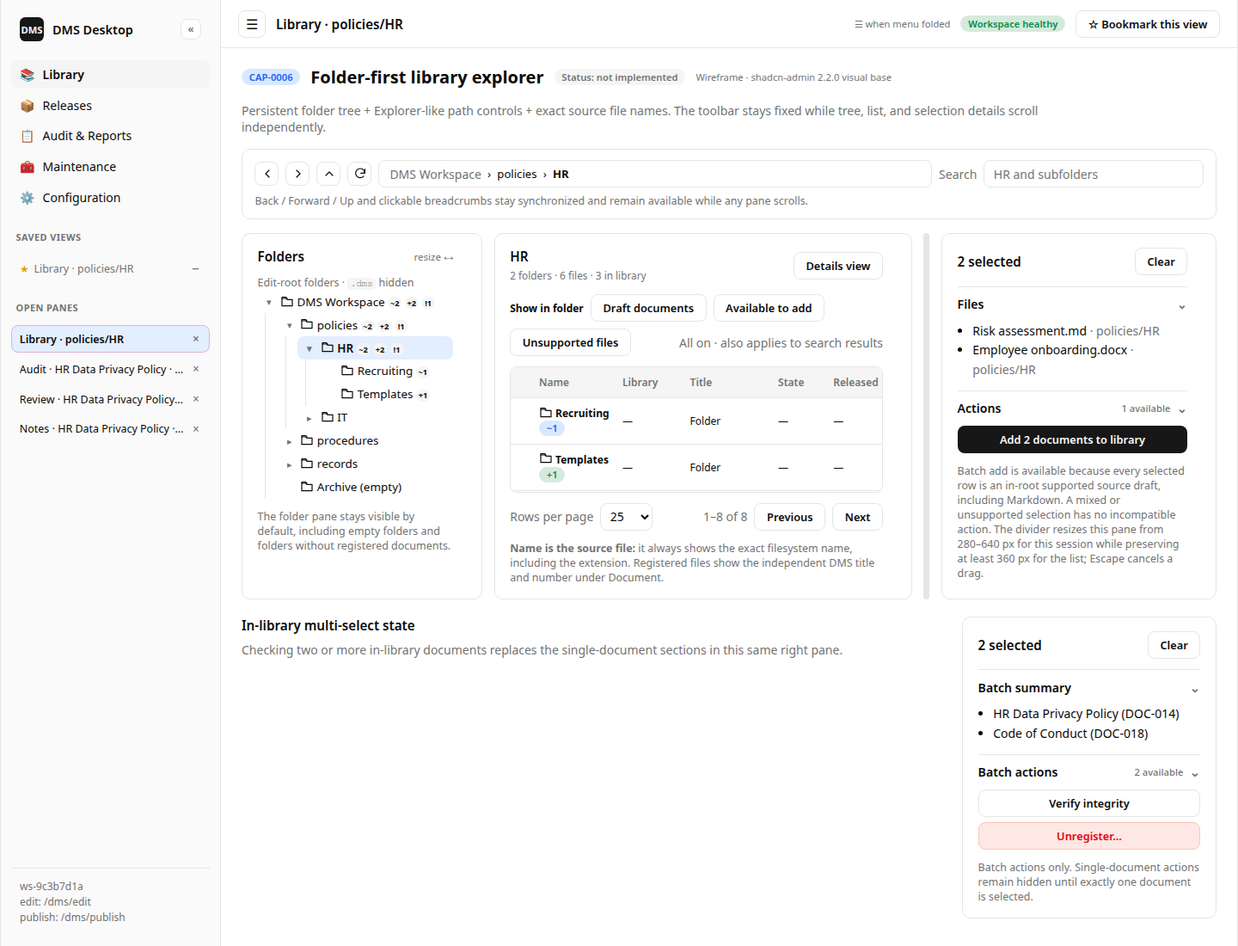
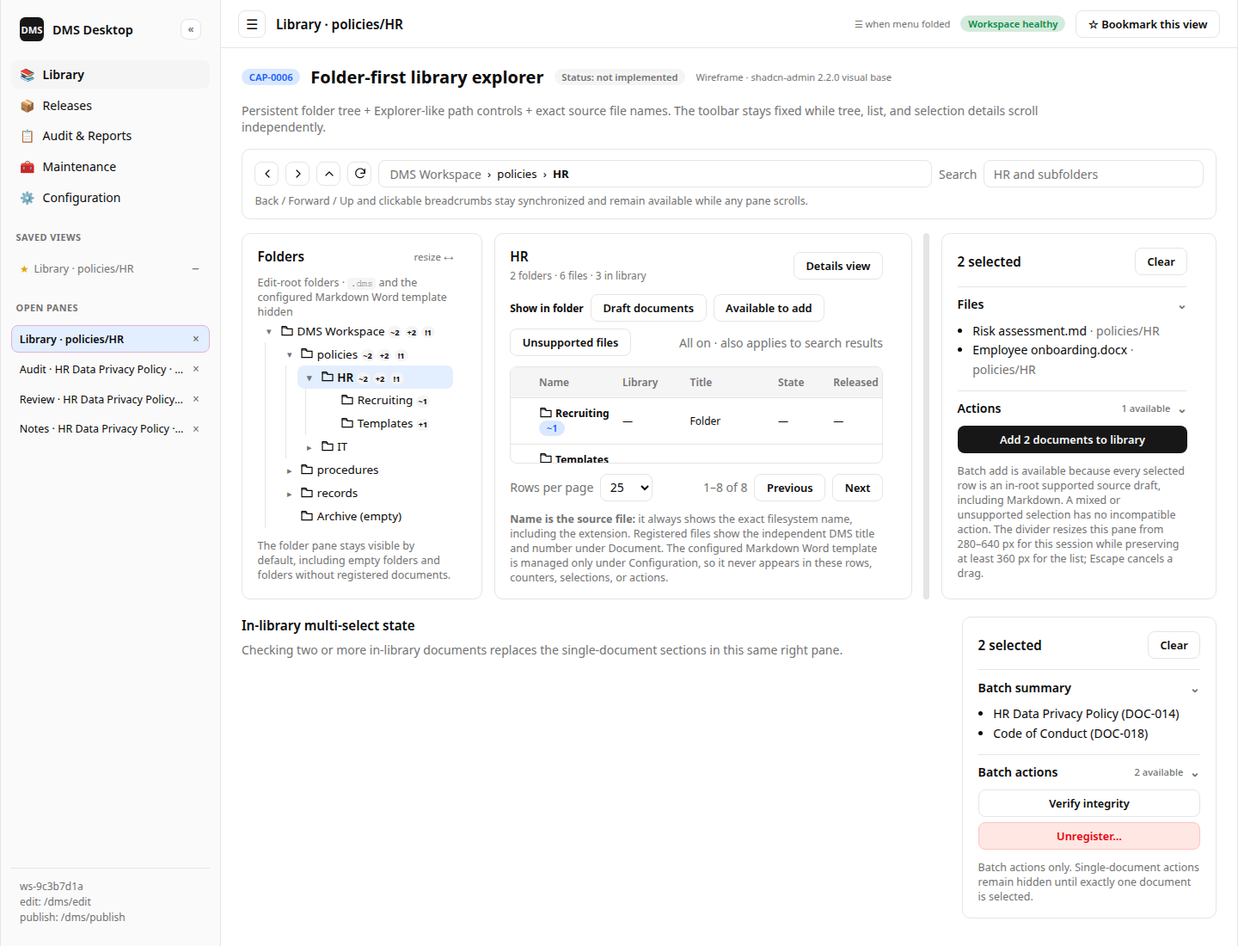
feat(desktop): add Markdown template controls
Expose native template selection, validation, replacement, and confirmed removal under Document defaults while keeping the configured asset out of Library discovery and actions.

Changed region(s): [[0.1875, 0.2782, 0.375, 0.6182], [0.4062, 0.4945, 0.7188, 0.6182]]

diff --git a/docs/product/wireframes/html/CAP-0007-draft-pdf-export.html b/docs/product/wireframes/html/CAP-0007-draft-pdf-export.html
@@ -226,24 +226,31 @@ tr:last-child td { border-bottom: 0; }
         <span class="badge muted">Status: not implemented</span>
         <span class="wire-meta">Wireframe · shadcn-admin 2.2.0 visual base</span>
       </div>
-      <p class="subtitle">Office via host Office (temp token fill); Markdown via CommonMark print shell + WebView PDF. Shared export chrome from .dms. Classified filename → temp PDF → validate → SHA-256 → atomic rename.</p>
+      <p class="subtitle">Office drafts export through host Office; Markdown is assembled into a temporary DOCX from the configured workspace template, then follows the same Office PDF path. Classified filename → temp PDF → validate → SHA-256 → atomic rename.</p>
       
+      <section class="card">
+        <div class="row between mb"><h3 class="card-title" style="margin:0">Markdown Word template prerequisite</h3><span class="badge ok">Valid</span></div>
+        <dl class="kv"><div><dt>Configuration route</dt><dd>Document defaults</dd></div><div><dt>Exact source path</dt><dd>templates/Controlled release.docx</dd></div><div><dt>Template identity</dt><dd>Stable across replacement</dd></div><div><dt>Library participation</dt><dd>Excluded from rows, counters, selection, notes, lifecycle, and permalinks</dd></div></dl>
+        <div class="row gap-2" style="margin-top:0.75rem"><button class="btn">Replace Word template…</button><button class="btn outline">Remove configuration…</button></div>
+        <p class="hint">The native picker accepts only an in-root <code>.docx</code>. Replacement affects future Markdown releases only; removal blocks that release path until another valid template is selected.</p>
+      </section>
       <section class="card">
         <h3 class="card-title">Export pipeline</h3>
         <div class="pipeline">
-          <div class="step active"><span class="dot"></span>Identify source format</div><div class="step active"><span class="dot"></span>Build export chrome from .dms</div><div class="step active"><span class="dot"></span>Office temp token fill or MD print shell</div><div class="step active"><span class="dot"></span>Export to temp PDF</div><div class="step active"><span class="dot"></span>Validate header</div><div class="step active"><span class="dot"></span>SHA-256 digest</div><div class="step active"><span class="dot"></span>Atomic rename</div>
+          <div class="step active"><span class="dot"></span>Identify source format</div><div class="step active"><span class="dot"></span>Validate front matter + template</div><div class="step active"><span class="dot"></span>Assemble temp DOCX + DMS properties</div><div class="step active"><span class="dot"></span>Host Office PDF export</div><div class="step active"><span class="dot"></span>Validate header</div><div class="step active"><span class="dot"></span>SHA-256 digest</div><div class="step active"><span class="dot"></span>Atomic rename</div>
         </div>
       </section>
       <section class="card">
-        <h3 class="card-title">Markdown print shell (Option A)</h3>
-        <dl class="kv"><div><dt>Body</dt><dd>CommonMark HTML; YAML front matter stripped</dd></div><div><dt>Chrome source</dt><dd>Release context only (not front matter / Office props)</dd></div><div><dt>Footer captions</dt><dd>Vertraulichkeitsstufe: <label> · Version: <major>.<minor></dd></div><div><dt>Assets</dt><dd>Shipped shell.html + print.css + logo (Vorlage-derived)</dd></div></dl>
-        <p class="muted">CAP-0002 marker checks still read the Markdown body on disk. Print-shell footers repeat chrome on the PDF and do not replace that gate.</p>
+        <h3 class="card-title">Markdown → template-backed DOCX</h3>
+        <dl class="kv"><div><dt>Body</dt><dd>CommonMark blocks assembled as native WordprocessingML; YAML front matter stripped</dd></div><div><dt>Styles + package assets</dt><dd>Configured workspace Word template</dd></div><div><dt>Controlled values</dt><dd>Front matter validated against the candidate; DMS_* custom properties written from .dms</dd></div><div><dt>PDF engine</dt><dd>Installed Microsoft Word through the same host export boundary as Office drafts</dd></div></dl>
+        <p class="muted">The temporary DOCX is an implementation artifact only. A successful release commits the PDF and release evidence, then removes the temporary Word file.</p>
       </section>
       <section class="card">
         <h3 class="card-title">Fail-closed conditions</h3>
         <ul class="list danger-list">
           <li>Office missing or unlicensed for an Office draft → abort, no partial version</li>
-          <li>Markdown render or print-shell failure → abort, no partial version</li>
+          <li>Markdown template missing, changed, invalid, or outside the edit root → abort, no partial version</li>
+          <li>Required front matter invalid or DOCX assembly failure → abort, no partial version</li>
           <li>Unsupported draft extension → abort with clear message</li>
           <li>Temp empty or missing %PDF header → remove temp, no release record</li>
           <li>Target path occupied by non-app file → fail (ADR-0007)</li>

diff --git a/docs/product/wireframes/html/CAP-0006-library-explorer.html b/docs/product/wireframes/html/CAP-0006-library-explorer.html
@@ -270,7 +270,7 @@ tr:last-child td { border-bottom: 0; }
             <h3 class="card-title" style="margin:0">Folders</h3>
             <span class="muted" style="font-size:0.72rem">resize ↔</span>
           </div>
-          <p class="hint" style="margin-top:0">Edit-root folders · <code>.dms</code> hidden</p>
+          <p class="hint" style="margin-top:0">Edit-root folders · <code>.dms</code> and the configured Markdown Word template hidden</p>
           <ul class="tree-root">
             <li>
               <div class="tree-node"><span class="tree-twisty">▾</span><span class="tree-label"><svg aria-hidden="true" viewBox="0 0 24 24" style="width:1rem;height:1rem;display:inline-block;vertical-align:-0.18rem;fill:none;stroke:currentColor;stroke-width:1.8;stroke-linecap:round;stroke-linejoin:round"><path d="M3 6h7l2 2h9v11H3z"/><path d="M3 6V4h7l2 2"/></svg> DMS Workspace <span aria-label="2 draft documents" title="2 draft documents" style="display:inline-flex;min-width:1rem;justify-content:center;padding:0.05rem 0.14rem;border-radius:999px;background:var(--muted);font-size:0.58rem;font-weight:700">~2</span> <span aria-label="2 files available to add" title="2 files available to add" style="display:inline-flex;min-width:1rem;justify-content:center;padding:0.05rem 0.14rem;border-radius:999px;background:var(--muted);font-size:0.58rem;font-weight:700">+2</span> <span aria-label="1 unsupported file" title="1 unsupported file" style="display:inline-flex;min-width:1rem;justify-content:center;padding:0.05rem 0.14rem;border-radius:999px;background:var(--muted);font-size:0.58rem;font-weight:700">!1</span></span></div>
@@ -384,7 +384,7 @@ tr:last-child td { border-bottom: 0; }
     <label class="muted" style="display:flex;align-items:center;gap:0.45rem">Rows per page <select aria-label="Library rows per page" style="height:2rem;border:1px solid var(--input);border-radius:calc(var(--radius) - 2px);padding:0 0.45rem;font:inherit;color:var(--foreground);background:var(--background)"><option>10</option><option selected>25</option><option>50</option><option>100</option></select></label>
     <div class="row gap-2"><span class="muted">1–8 of 8</span><button class="btn outline" disabled>Previous</button><button class="btn outline" disabled>Next</button></div>
   </div>
-          <p class="hint"><strong>Name is the source file:</strong> it always shows the exact filesystem name, including the extension. Registered files show the independent DMS title and number under Document.</p>
+          <p class="hint"><strong>Name is the source file:</strong> it always shows the exact filesystem name, including the extension. Registered files show the independent DMS title and number under Document. The configured Markdown Word template is managed only under Configuration, so it never appears in these rows, counters, selections, or actions.</p>
         </section>
         <div role="separator" aria-label="Resize document details" aria-orientation="vertical" style="cursor:col-resize;background:var(--border);border-radius:999px" title="Drag or use Left/Right; Escape cancels"></div>
         <aside class="card detail-pane">

diff --git a/docs/product/wireframes/html/CAP-0005-desktop-shell.html b/docs/product/wireframes/html/CAP-0005-desktop-shell.html
@@ -247,6 +247,7 @@ tr:last-child td { border-bottom: 0; }
           <div class="layer"><strong>Open activity panes/tabs</strong><p class="muted">Automatic, session-only quicklinks. Labels state task + target: Audit · HR Data Privacy Policy · DOC-014 for a document or Library · policies/HR for a folder. Opening the same task + document focuses its existing pane; × closes that activity only.</p></div>
           <div class="layer"><strong>Saved views</strong><p class="muted">Use ☆ Bookmark this view in the header. ★ Bookmarked is an explicit, per-user shortcut restored after relaunch; it is not a .dms workflow record.</p></div>
           <div class="layer"><strong>Viewport-contained scrolling</strong><p class="muted">The sidebar and activity header stay available. Normal activities scroll inside main content; multi-pane workspaces give navigation, lists, and exhaustive details separate scroll regions.</p></div>
+          <div class="layer"><strong>Configuration → Document defaults</strong><p class="muted">One reusable Markdown Word template is chosen with the native .docx picker. Its exact edit-root-relative path and validation state stay visible with distinct Replace and confirmed Remove actions.</p></div>
           <div class="layer"><strong>Permalink handler</strong><p class="muted">OS-registered dms:// URI resolves workspace + document IDs (CAP-0020); opens/focuses matching activity tab.</p></div>
         </div>
       </section>
@@ -309,7 +310,7 @@ tr:last-child td { border-bottom: 0; }
       <section class="card">
         <h3 class="card-title">Backend command surface</h3>
         <div class="tags">
-          <span class="tag">Configure roots</span><span class="tag">Open workspace</span><span class="tag">Library add/remove</span><span class="tag">Lifecycle transitions</span><span class="tag">Release + verify</span><span class="tag">Copy/resolve permalink</span><span class="tag">Audit export</span><span class="tag">Backup/restore</span><span class="tag">Claude handoff</span>
+          <span class="tag">Configure roots</span><span class="tag">Select/replace/remove Word template</span><span class="tag">Open workspace</span><span class="tag">Library add/remove</span><span class="tag">Lifecycle transitions</span><span class="tag">Release + verify</span><span class="tag">Copy/resolve permalink</span><span class="tag">Audit export</span><span class="tag">Backup/restore</span><span class="tag">Claude handoff</span>
         </div>
       </section>
     </main>

diff --git a/crates/dms-desktop/ui/styles.css b/crates/dms-desktop/ui/styles.css
@@ -419,6 +419,11 @@ button { cursor: pointer; }
 .configuration-grid .card, .configuration-card { max-width: none; }
 .configuration-card { display: grid; gap: 14px; }
 .configuration-card h2, .configuration-card h3, .configuration-card p { margin: 0; }
+.configuration-template { border-left: 4px solid #66889e; }
+.configuration-template-state { align-self: start; }
+.configuration-template-state.success { color: #26613c; background: #e3f3e8; }
+.configuration-template-state.warning { color: #7c4f12; background: #fff0cf; }
+.configuration-template .configuration-enabled { max-width: 700px; font-weight: 500; }
 .configuration-form { display: flex; align-items: end; flex-wrap: wrap; gap: 10px; padding-top: 14px; border-top: 1px solid #edf1f3; }
 .configuration-form label { display: grid; min-width: 220px; flex: 1; gap: 6px; font-size: 13px; font-weight: 700; }
 .configuration-form input, .configuration-form select, .configuration-type-row input { width: 100%; height: 38px; padding: 0 10px; background: white; border: 1px solid #bdc9d2; border-radius: 7px; }

diff --git a/crates/dms-desktop/src/lib.rs b/crates/dms-desktop/src/lib.rs
@@ -12,12 +12,13 @@ use dms_core::{
     ConfidentialityPolicy, ConfidentialityType, ControlUpdate, DeliveryAttempt, DmsError, Document,
     DocumentControl, DocumentType, EffectiveConfidentiality, EffectiveWorkflowRoles,
     EntraIdentitySource, EntraPerson, GraphClient, LibraryEntry, LibraryFolder, LibraryFolderNode,
-    Lifecycle, LocalLifecycleActions, Note, NotificationClient, NotificationKind,
-    NotificationMessage, NotificationSettings, NotificationTransport, OwnerReference, PdfExporter,
-    PeriodicReview, PeriodicReviewMarker, PeriodicReviewResult, PermalinkTarget, PersonSnapshot,
-    PolicyFolder, ReleaseCandidate, ReleaseVerificationStatus, RestoreOutcome, RestoreRequest,
-    ReviewDecision, RoleUpdate, SmtpSettings, SourceState, TargetSelection, Version, WorkflowEvent,
-    WorkflowPolicyAssignment, WorkflowVerification, Workspace, WorkspaceLock, WorkspaceLockStatus,
+    Lifecycle, LocalLifecycleActions, MarkdownTemplateAsset, MarkdownTemplateValidation, Note,
+    NotificationClient, NotificationKind, NotificationMessage, NotificationSettings,
+    NotificationTransport, OwnerReference, PdfExporter, PeriodicReview, PeriodicReviewMarker,
+    PeriodicReviewResult, PermalinkTarget, PersonSnapshot, PolicyFolder, ReleaseCandidate,
+    ReleaseVerificationStatus, RestoreOutcome, RestoreRequest, ReviewDecision, RoleUpdate,
+    SmtpSettings, SourceState, TargetSelection, Version, WorkflowEvent, WorkflowPolicyAssignment,
+    WorkflowVerification, Workspace, WorkspaceLock, WorkspaceLockStatus,
 };
 use lettre::message::Mailbox;
 use serde::{Deserialize, Serialize};
@@ -143,6 +144,8 @@ pub struct DesktopPermalinkResolution {
 #[derive(Clone, Debug, Serialize, PartialEq, Eq)]
 pub struct WorkspaceConfiguration {
     pub workspace: WorkspaceSummary,
+    pub markdown_template: Option<MarkdownTemplateAsset>,
+    pub markdown_template_validation: Option<MarkdownTemplateValidation>,
     pub default_review_interval_months: u32,
     pub document_types: Vec<DocumentType>,
     pub confidentiality_types: Vec<ConfidentialityType>,
@@ -376,6 +379,53 @@ fn load_workspace_configuration(
     edit_root: String,
 ) -> Result<WorkspaceConfiguration, String> {
     workspace_configuration(&app, Path::new(&edit_root))
+}
+
+#[tauri::command]
+async fn choose_markdown_template(
+    app: AppHandle,
+    edit_root: String,
+) -> Result<Option<WorkspaceConfiguration>, String> {
+    let workspace = Workspace::open(Path::new(&edit_root)).map_err(|error| error.to_string())?;
+    let selection = app
+        .dialog()
+        .file()
+        .set_title("Choose Markdown Word template")
+        .set_directory(workspace.edit_root)
+        .add_filter("Word document", &["docx"])
+        .blocking_pick_file();
+    let Some(selection) = selection else {
+        return Ok(None);
+    };
+    let source_path = selection
+        .as_path()
+        .ok_or_else(|| "the selected Word template is not a local filesystem path".to_owned())?;
+    import_markdown_template_from_path(Path::new(&edit_root), source_path).map(Some)
+}
+
+fn import_markdown_template_from_path(
+    edit_root: &Path,
+    source_path: &Path,
+) -> Result<WorkspaceConfiguration, String> {
+    mutate_workspace_configuration(edit_root, |workspace| {
+        workspace.import_markdown_template(source_path).map(|_| ())
+    })
+}
+
+#[tauri::command]
+fn remove_markdown_template(
+    edit_root: String,
+    confirmed: bool,
+) -> Result<WorkspaceConfiguration, String> {
+    if !confirmed {
+        return Err(
+            "removing the Markdown Word template requires explicit confirmation".to_owned(),
+        );
+    }
+    mutate_workspace_configuration(Path::new(&edit_root), |workspace| {
+        workspace.remove_markdown_template();
+        Ok(())
+    })
 }
 
 #[tauri::command]
@@ -2004,6 +2054,8 @@ fn workspace_configuration_from_with_global_and_credentials<C: notify::Credentia
 ) -> Result<WorkspaceConfiguration, String> {
     Ok(WorkspaceConfiguration {
         workspace: workspace_summary_from(workspace),
+        markdown_template: workspace.markdown_template().cloned(),
+        markdown_template_validation: workspace.markdown_template_validation(),
         default_review_interval_months: workspace.default_review_interval_months(),
         document_types: workspace.document_types().into_iter().cloned().collect(),
         confidentiality_types: workspace
@@ -2496,6 +2548,8 @@ pub fn run() {
             open_workspace,
             resolve_registered_permalink,
             load_workspace_configuration,
+            choose_markdown_template,
+            remove_markdown_template,
             configure_global_entra,
             open_external_url,
             configure_default_review_interval,
@@ -2884,6 +2938,39 @@ mod tests {
             .policy_folders
             .iter()
             .any(|folder| folder.relative_path == "Policies/HR"));
+
+        let template_path = edit_root.path().join("Word template.docx");
+        fs::copy(
+            Path::new(env!("CARGO_MANIFEST_DIR"))
+                .join("../dms-core/tests/fixtures/markdown-template.docx"),
+            &template_path,
+        )
+        .unwrap();
+        let template =
+            import_markdown_template_from_path(edit_root.path(), &template_path).unwrap();
+        assert_eq!(
+            template.markdown_template.as_ref().unwrap().relative_path,
+            PathBuf::from("Word template.docx")
+        );
+        assert_eq!(
+            template.markdown_template_validation.unwrap().state,
+            dms_core::MarkdownTemplateValidationState::Valid
+        );
+        let hidden = library_snapshot(edit_root.path(), Path::new(".")).unwrap();
+        assert!(!hidden
+            .folder
+            .entries
+            .iter()
+            .any(|entry| entry.relative_path == Path::new("Word template.docx")));
+        assert!(remove_markdown_template(root.clone(), false).is_err());
+        let removed = remove_markdown_template(root.clone(), true).unwrap();
+        assert!(removed.markdown_template.is_none());
+        let visible = library_snapshot(edit_root.path(), Path::new(".")).unwrap();
+        assert!(visible
+            .folder
+            .entries
+            .iter()
+            .any(|entry| entry.relative_path == Path::new("Word template.docx")));
 
         let interval = configure_default_review_interval(root.clone(), 6).unwrap();
         assert_eq!(interval.default_review_interval_months, 6);

diff --git a/docs/product/capabilities/CAP-0006-library-explorer.md b/docs/product/capabilities/CAP-0006-library-explorer.md
@@ -4,7 +4,7 @@
 | --- | --- |
 | ID | CAP-0006 |
 | Status | not implemented |
-| Tests | Partial phases 3, 9b.1, 9e, 9f.1, 9f.2, 9f.5, 9g, 9k.3, 9k.4, and CHG-0004 Phase 2 evidence: [`dms-core` Library and lifecycle tests](../../../crates/dms-core/tests/lifecycle.rs), [`dms-core` recursive Library counter tests](../../../crates/dms-core/tests/library.rs), [template-asset exclusion tests](../../../crates/dms-core/tests/markdown_template.rs), [`dms-desktop` adapter tests](../../../crates/dms-desktop/src/lib.rs), [shell, direct folder activation, bounded splitter, and permalink-target tests](../../../crates/dms-desktop/ui/app.test.mjs), [hierarchical Library, file-visibility, counter, icon, document-control, placeholder, and workflow frontend tests](../../../crates/dms-desktop/ui/library.test.mjs), [Windows/macOS smoke](https://github.com/videoclinic/dms/actions/runs/31359360786) |
+| Tests | Partial phases 3, 9b.1, 9e, 9f.1, 9f.2, 9f.5, 9g, 9k.3, 9k.4, and CHG-0004 Phases 2–3 evidence: [`dms-core` Library and lifecycle tests](../../../crates/dms-core/tests/lifecycle.rs), [`dms-core` recursive Library counter tests](../../../crates/dms-core/tests/library.rs), [template-asset exclusion tests](../../../crates/dms-core/tests/markdown_template.rs), [`dms-desktop` adapter tests](../../../crates/dms-desktop/src/lib.rs), [shell, direct folder activation, bounded splitter, and permalink-target tests](../../../crates/dms-desktop/ui/app.test.mjs), [hierarchical Library, file-visibility, counter, icon, document-control, placeholder, and workflow frontend tests](../../../crates/dms-desktop/ui/library.test.mjs), [Windows/macOS smoke](https://github.com/videoclinic/dms/actions/runs/31359360786) |
 
 ## Outcomes (contract — not yet true in runtime)
 
@@ -55,13 +55,13 @@ When implemented, the following must hold:
      document's membership.
    - The centre pane lists the current folder's immediate child folders followed
      by its immediate child files. Every regular file is represented, except
-     internal `.dms` content and Office lock/temp sidecars defined by CAP-0013.
+     internal `.dms` content, Office lock/temp sidecars defined by CAP-0013, and
+     the configured Markdown export-template asset.
      A file row's **Name** is always the exact filesystem file name, including
      its extension. Each file row states whether it is **In library**, **Not in
-     library** (a supported source draft), **Workspace template** (the configured
-     CAP-0007 asset), or not a supported draft. The template remains visible at
-     its exact edit-root-relative location but is not selectable for document,
-     batch-add, lifecycle, notes, or permalink actions. A
+     library** (a supported source draft), or not a supported draft. The
+     configured CAP-0007 template never appears in Library rows, counters,
+     searches, selection, batch-add, lifecycle, notes, or permalink actions. A
      registered document additionally shows its DMS-managed document title and
      control data in a separate **Title** field; that title never replaces
      the source file name. Primary-click or Enter on a folder row opens that

diff --git a/crates/dms-desktop/AGENTS.md b/crates/dms-desktop/AGENTS.md
@@ -18,7 +18,7 @@ macOS.
 | `ui/maintenance.mjs` | Releases, periodic-review, advisory-lock status/configuration, full backup, and confirmed restore panes |
 | `ui/reports.mjs` | Audit-report generation filters, recent-report history, verification state, paging, and host actions |
 | `ui/assistance.mjs` | Workspace policy form plus document-scoped payload preview, consent, handoff, and editable response draft |
-| `ui/configuration.mjs` | Routed workspace/default/workflow/notification state, secondary catalogue/identity surfaces, and mutation requests |
+| `ui/configuration.mjs` | Routed workspace/default/workflow/notification state, Markdown Word-template controls, secondary catalogue/identity surfaces, and mutation requests |
 | `ui/print/` | Shipped app-local Markdown print shell, stylesheet, and logo |
 | `ui/*.test.mjs` | Framework-free shell and Library interaction tests |
 | `capabilities/` | Tauri window permissions |
@@ -71,6 +71,9 @@ macOS.
   Draft documents, Available to add, and Unsupported files controls filter files
   before sorting and pagination, apply equally to folder and search results, and
   never hide folders or alter counters.
+- Never expose the configured Markdown Word-template asset in Library rows,
+  counters, selections, notes, lifecycle actions, or permalinks. Configuration →
+  Document defaults is its only management surface.
 - The Library centre/details divider resizes the selection pane only for the
   current session, preserves at least 360 px for folder contents, and restores
   the width at drag start when cancelled with `Escape`.
@@ -129,6 +132,11 @@ macOS.
   encoded Microsoft My Account group page through the host-browser boundary.
   Desktop-only delegated tokens remain in the OS credential store; credentials
   never cross the frontend IPC boundary or enter `.dms`.
+- Configuration → Document defaults selects one reusable Markdown Word template
+  through a native `.docx` picker rooted at the edit root. Show its stable ID,
+  exact relative path, and current validation state. Replacement preserves the
+  ID; removal requires explicit confirmation and states that Markdown release is
+  blocked until another valid template is selected.
 - Workflow folders render as a semantic tree with session-only independent
   branch state. Folder selection expands only its ancestor chain; direct Editor
   and Approver assignments are badged without labelling inherited roles as direct.

diff --git a/docs/changes/active/CHG-0004-markdown-word-template-release.md b/docs/changes/active/CHG-0004-markdown-word-template-release.md
@@ -3,7 +3,7 @@
 | Field | Value |
 | --- | --- |
 | ID | CHG-0004 |
-| Status | in-progress — Phases 1–2 complete; Phase 3 pending |
+| Status | in-progress — Phases 1–3 complete; Phase 4 pending |
 | External request | Direct operator request: “In order to export Markdown files to PDF the idea was to use a Word template like .temp/Vorlage.docx This template could/should be imported into the library for reuse. The frontmatter should be then used in the Word document template as metadata for \"auto-fields\" if possible.” |
 | Affected CAPs | CAP-0001, CAP-0002, CAP-0005, CAP-0006, CAP-0007, CAP-0015 |
 | Decision records | ADR-0008 |
@@ -201,6 +201,27 @@ never overwrites `.dms` control data.
    notes, lifecycle, and permalinks.
 4. Add adapter/frontend tests and update the CAP-0005/CAP-0006/CAP-0007
    wireframes and DOX contracts.
+
+### Phase 3 evidence — 2026-08-15
+
+- Configuration → Document defaults exposes native `.docx` selection, exact
+  template ID and relative path, validation state, stable-ID replacement
+  consequences, and explicitly confirmed removal consequences. Picker cancel
+  leaves the configuration unchanged.
+- The desktop adapter delegates import/removal and validation to `dms-core`.
+  Focused adapter coverage proves persistence, valid-state reporting, confirmed
+  removal, and that the configured asset is absent from Library rows until its
+  configuration is removed.
+- Frontend tests prove the configured/unconfigured surfaces, escaped exact path,
+  validation labels, narrow IPC requests, and replacement/removal explanations.
+  The complete frontend suite passes all 84 tests.
+- CAP-0005, CAP-0006, and CAP-0007 HTML and PNG wireframes were regenerated at
+  1440×1100. Visual inspection found no clipping, overlap, broken glyph, or
+  action-hierarchy defect; CAP-0007 contains no stale WebView/print-shell path.
+  The 21-entry manifest resolves non-empty HTML/PNG pairs.
+- `cargo fmt --all -- --check`, `cargo test --workspace`,
+  `cargo clippy --workspace --all-targets -- -D warnings`, strict repository
+  links, Markdown table validation, and `git diff --check` pass.
 
 ## Phase 4 — Canonical Word-backed Markdown release
 

diff --git a/docs/product/capabilities/CAP-0007-draft-pdf-export.md b/docs/product/capabilities/CAP-0007-draft-pdf-export.md
@@ -5,7 +5,7 @@
 | ID | CAP-0007 |
 | Status | not implemented |
 | Mechanism | Installed Microsoft Word for Office drafts and Markdown converted into a temporary DOCX from the workspace Word-template asset |
-| Tests | Partial phase-5 and CHG-0004 Phases 1–2 evidence: [`dms-desktop` adapter/unit tests](../../../crates/dms-desktop/src/export.rs) cover Office temporary-copy field fill; [core template tests](../../../crates/dms-core/tests/markdown_template.rs) cover template validation, deterministic CommonMark-to-OOXML assembly, and non-body package preservation; the operator Vorlage opens and exports through Windows Word with visible title, number, version, and confidentiality fields. The former WebView smoke proves only the superseded path and is not evidence for the target Markdown route. |
+| Tests | Partial phase-5 and CHG-0004 Phases 1–3 evidence: [`dms-desktop` adapter/unit tests](../../../crates/dms-desktop/src/export.rs) cover Office temporary-copy field fill; [desktop Configuration tests](../../../crates/dms-desktop/src/lib.rs) and [frontend tests](../../../crates/dms-desktop/ui/configuration.test.mjs) cover template selection, validation display, removal confirmation, and Library exclusion; [core template tests](../../../crates/dms-core/tests/markdown_template.rs) cover template validation, deterministic CommonMark-to-OOXML assembly, and non-body package preservation; the operator Vorlage opens and exports through Windows Word with visible title, number, version, and confidentiality fields. The former WebView smoke proves only the superseded path and is not evidence for the target Markdown route. |
 
 ## Outcomes (contract — not yet true in runtime)
 

diff --git a/docs/product/capabilities/CAP-0005-desktop-shell.md b/docs/product/capabilities/CAP-0005-desktop-shell.md
@@ -6,7 +6,7 @@
 | Status | not implemented |
 | Framework | Tauri 2 |
 | Supported OS | Windows, macOS (both required) |
-| Tests | Partial phases 1–9g evidence: [`dms-desktop` adapter tests](../../../crates/dms-desktop/src/lib.rs), [shell/setup/sidebar-state/permalink frontend tests](../../../crates/dms-desktop/ui/app.test.mjs), [Configuration route and form tests](../../../crates/dms-desktop/ui/configuration.test.mjs), [Library document and lifecycle-action tests](../../../crates/dms-desktop/ui/library.test.mjs), [release-maintenance frontend tests](../../../crates/dms-desktop/ui/maintenance.test.mjs), [Windows/macOS startup and packaging smoke](../../../.github/workflows/desktop-platform-smoke.yml) |
+| Tests | Partial phases 1–9g and CHG-0004 Phase 3 evidence: [`dms-desktop` adapter tests](../../../crates/dms-desktop/src/lib.rs), [shell/setup/sidebar-state/permalink frontend tests](../../../crates/dms-desktop/ui/app.test.mjs), [Configuration route, template, and form tests](../../../crates/dms-desktop/ui/configuration.test.mjs), [Library document and lifecycle-action tests](../../../crates/dms-desktop/ui/library.test.mjs), [release-maintenance frontend tests](../../../crates/dms-desktop/ui/maintenance.test.mjs), [Windows/macOS startup and packaging smoke](../../../.github/workflows/desktop-platform-smoke.yml) |
 
 ## Outcomes (contract — not yet true in runtime)
 
